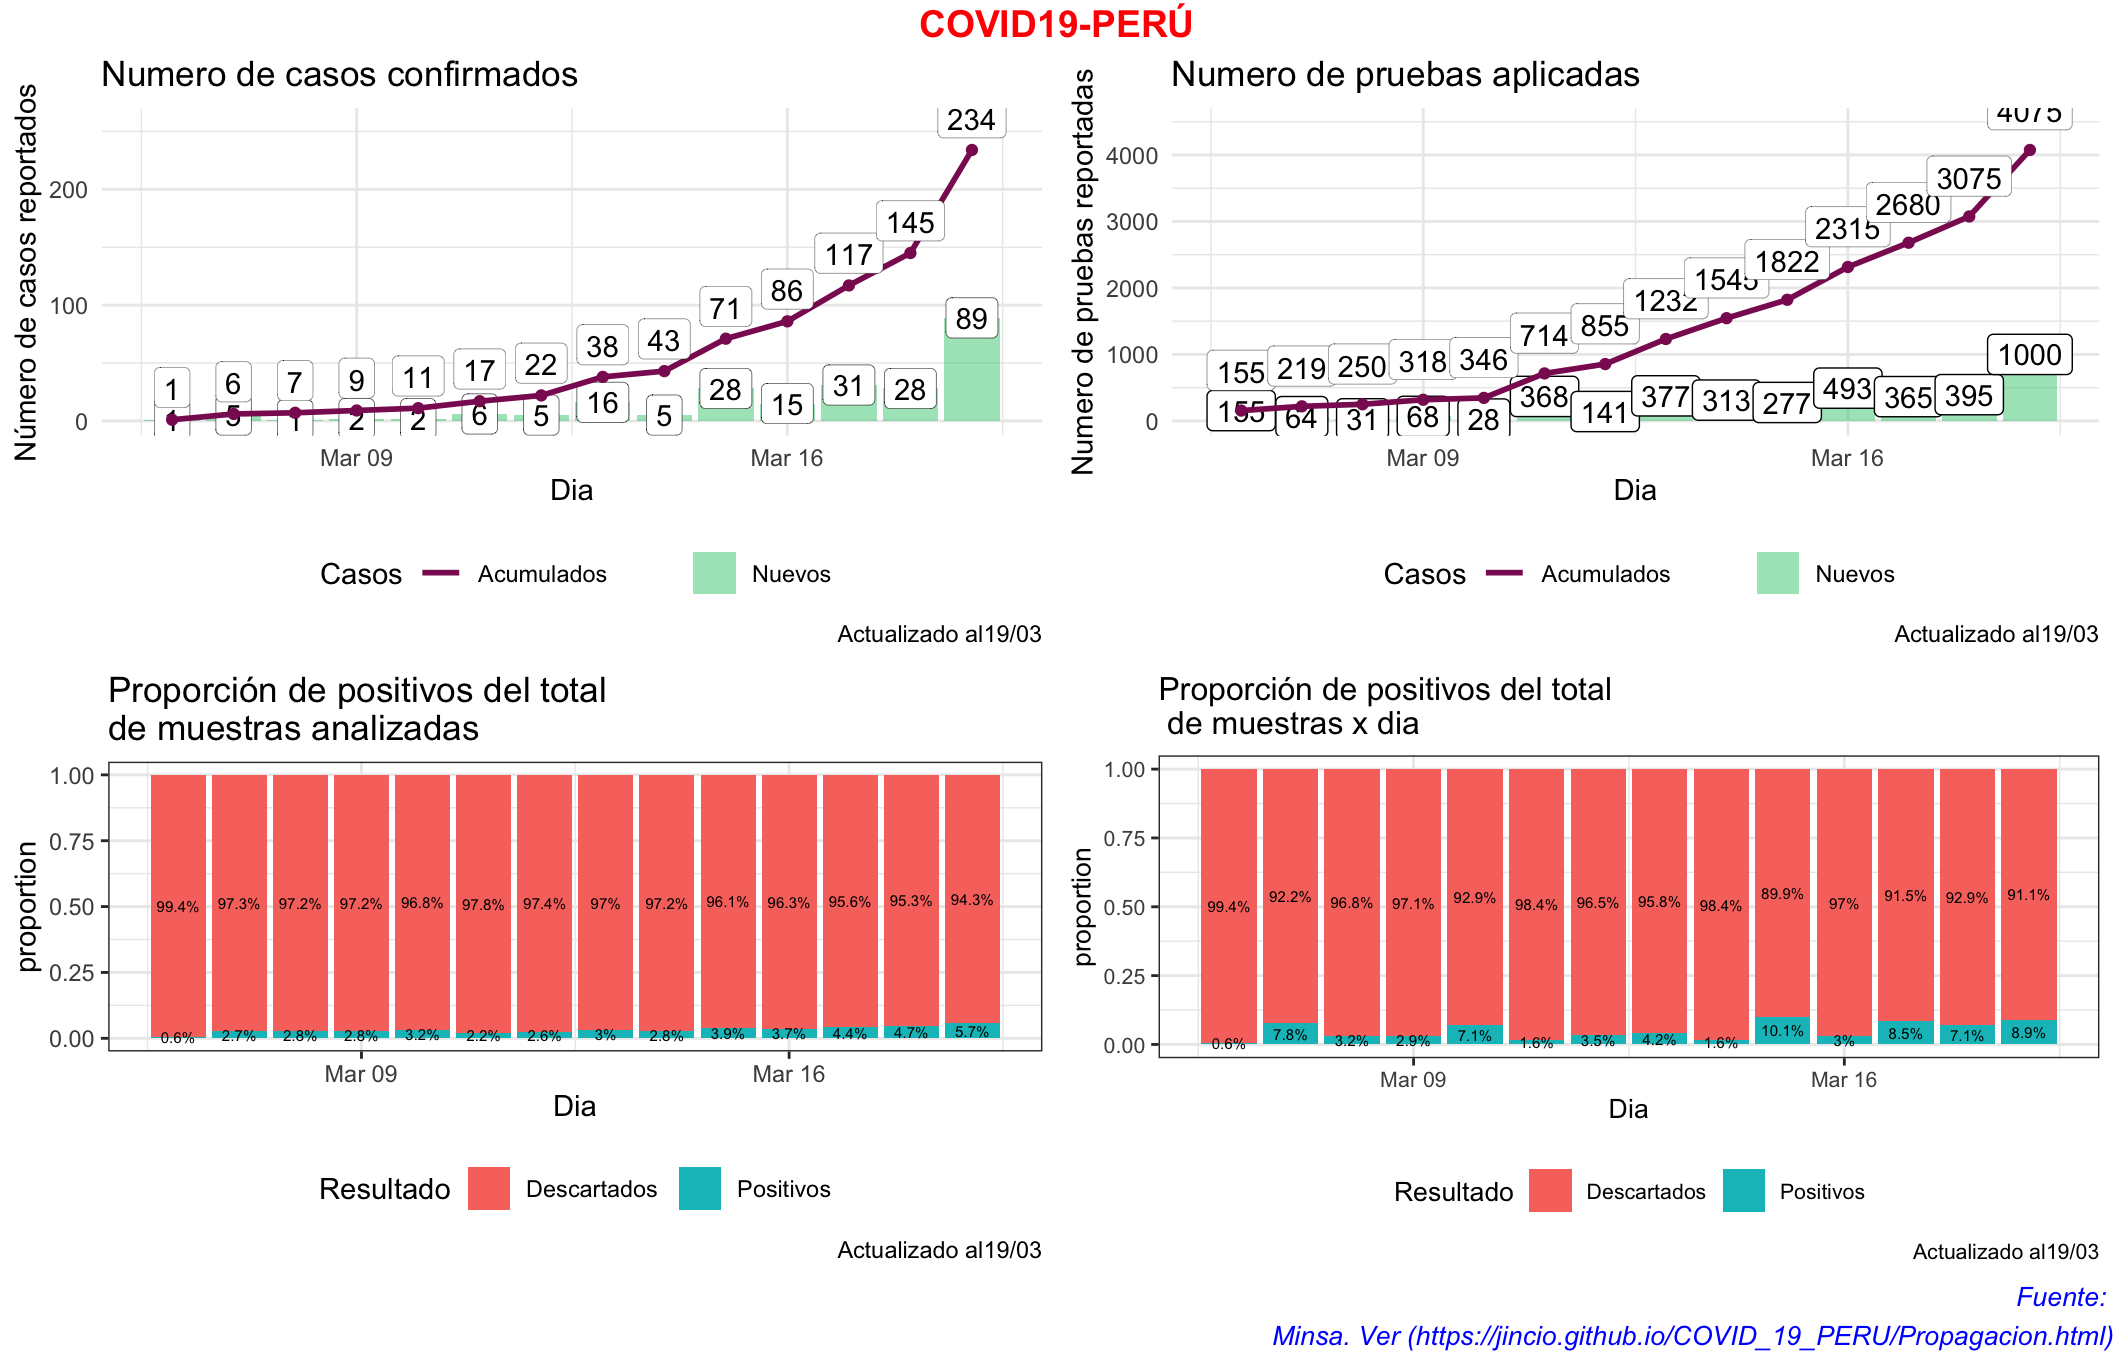
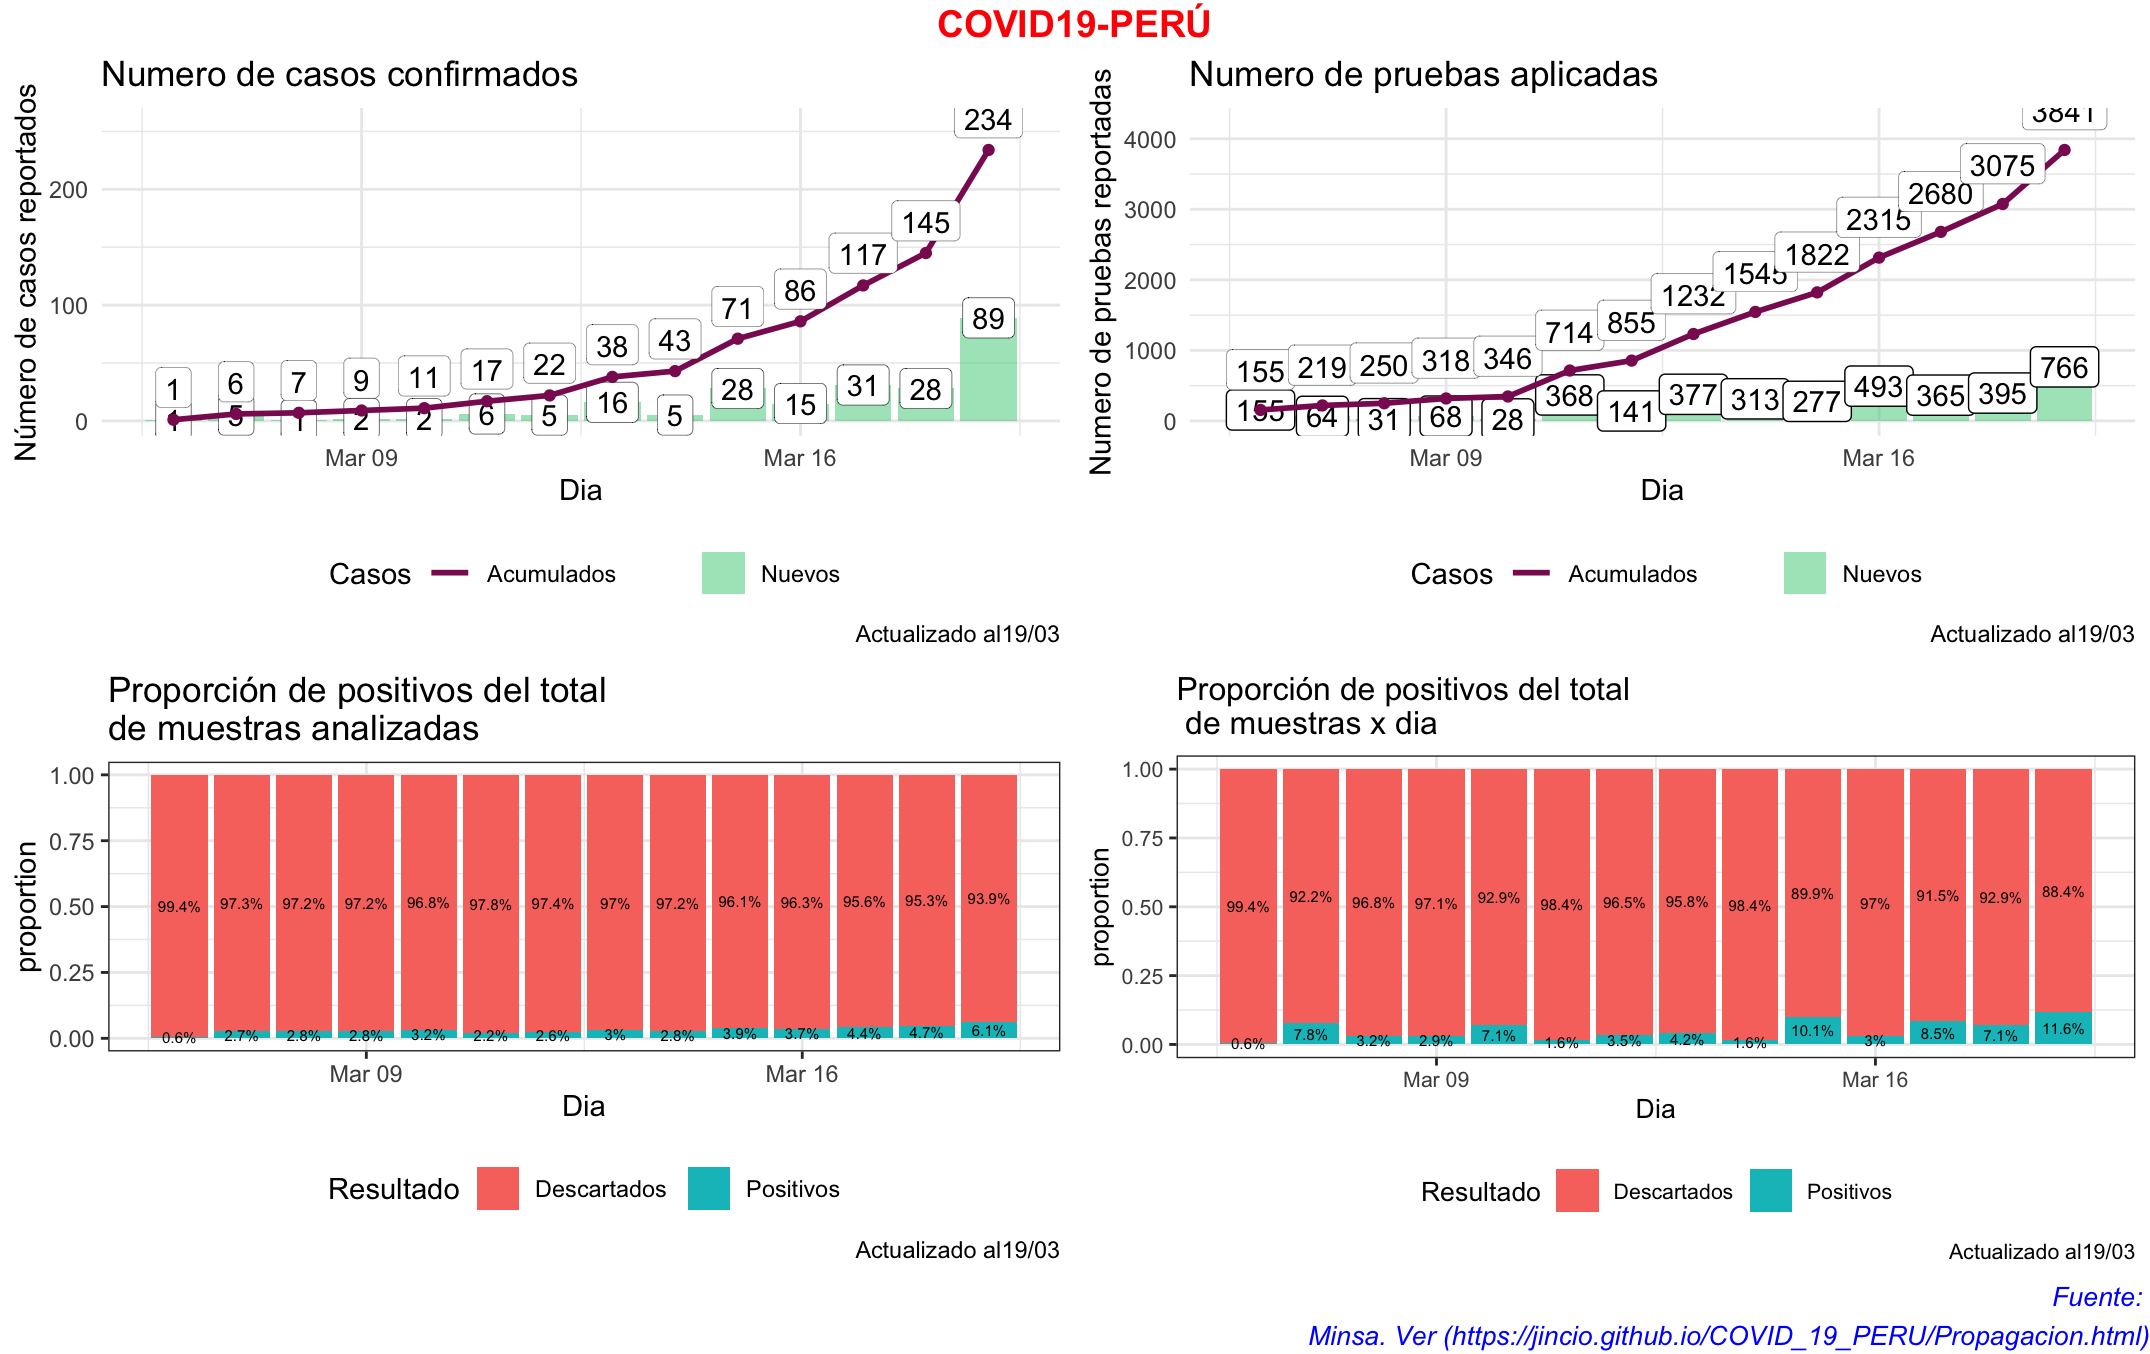
Update_fuente Minsa

diff --git a/docs/Propagacion.html b/docs/Propagacion.html
@@ -375,7 +375,6 @@ div.tocify {
 <div id="panel-conjunto" class="section level2">
 <h2><span class="header-section-number">0.2</span> Panel conjunto</h2>
 <p>Para los gráficos indivisudales he adaptado del post de Gabriel Carrasco Escobar (<a href="http://gcarrasco.rbind.io/blog/covid19_viz/" class="uri">http://gcarrasco.rbind.io/blog/covid19_viz/</a>)</p>
-<p>When a figure is not generated from R code, you may use knitr::include_graphics() to insert it to the document, e.g.</p>
 <p><img src="panel2.png" width="100%" /></p>
 </div>
 <div id="mapa" class="section level2">
@@ -654,10 +653,10 @@ Nuevos_Positivos
 234
 </td>
 <td style="text-align:right;">
-4075
+3841
 </td>
 <td style="text-align:right;">
-1000
+766
 </td>
 <td style="text-align:right;">
 89
@@ -668,9 +667,15 @@ Nuevos_Positivos
 </div>
 <div id="fuentes" class="section level2">
 <h2><span class="header-section-number">0.6</span> Fuentes</h2>
-<p>Para la construcción de la tabla he usado la información difundida por MINSA en su cuenta oficial de twitter <span class="citation">[@Minsa_Peru]</span>(<a href="https://twitter.com/Minsa_Peru" class="uri">https://twitter.com/Minsa_Peru</a>)</p>
+<p>Para la construcción de la tabla he usado la información difundida por MINSA en su cuenta oficial de twitter <span class="citation">[@Minsa_Peru]</span>(<a href="https://twitter.com/Minsa_Peru" class="uri">https://twitter.com/Minsa_Peru</a>). Existe también la página <a href="https://www.gob.pe/8662" class="uri">https://www.gob.pe/8662</a>.</p>
 <p>03/19</p>
-<p><a href="https://www.gob.pe/8662" class="uri">https://www.gob.pe/8662</a></p>
+<blockquote class="twitter-tweet">
+<p lang="es" dir="ltr">
+🗓 Reporte │ Esta es la situación del coronavirus <a href="https://twitter.com/hashtag/COVID19?src=hash&amp;ref_src=twsrc%5Etfw">#COVID19</a> en Perú hasta las 12:00 horas del 19 de marzo. Se registran dos altas. <a href="https://twitter.com/hashtag/Per%C3%BAEst%C3%A1EnNuestrasManos?src=hash&amp;ref_src=twsrc%5Etfw">#PerúEstáEnNuestrasManos</a><br><br>Para más información, visita: <a href="https://t.co/F4GaDrN5dc">https://t.co/F4GaDrN5dc</a> <a href="https://t.co/zYppUus7Ip">pic.twitter.com/zYppUus7Ip</a>
+</p>
+— Ministerio de Salud (<span class="citation">@Minsa_Peru</span>) <a href="https://twitter.com/Minsa_Peru/status/1240706791366733824?ref_src=twsrc%5Etfw">March 19, 2020</a>
+</blockquote>
+<script async src="https://platform.twitter.com/widgets.js" charset="utf-8"></script>
 <p>03/18</p>
 <blockquote class="twitter-tweet">
 <p lang="es" dir="ltr">
